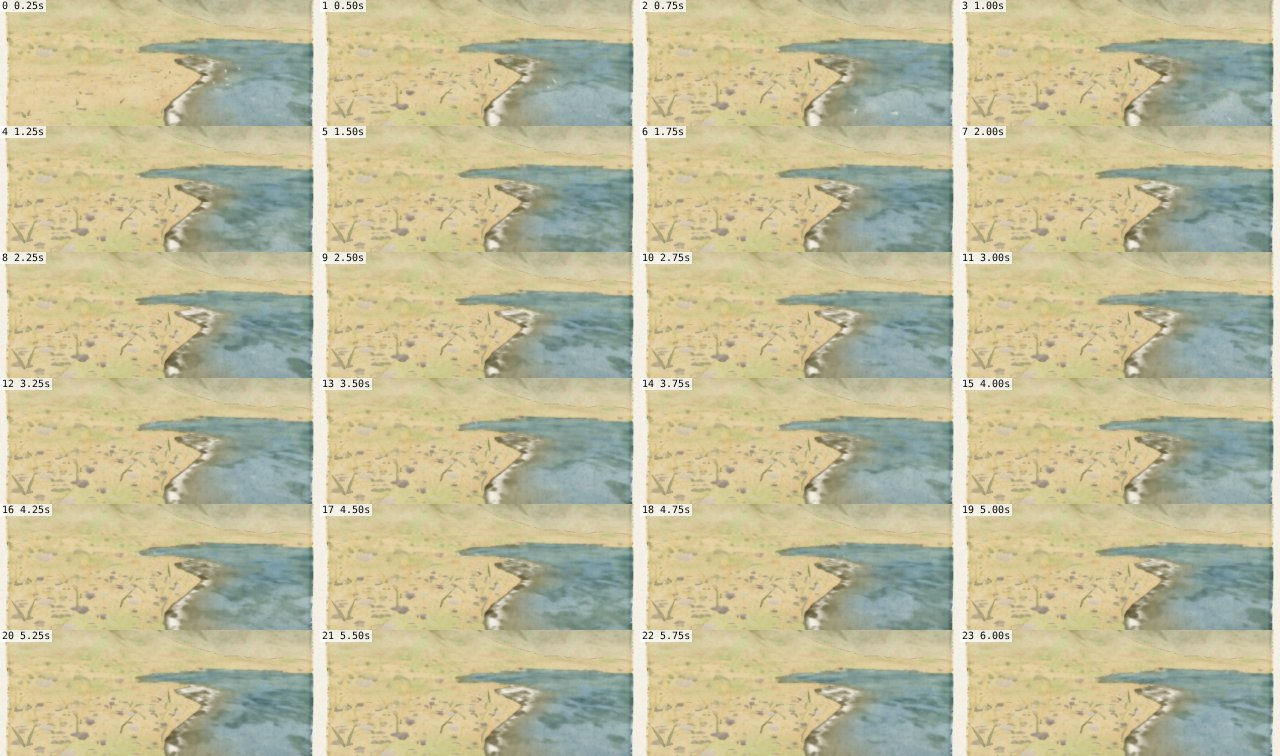
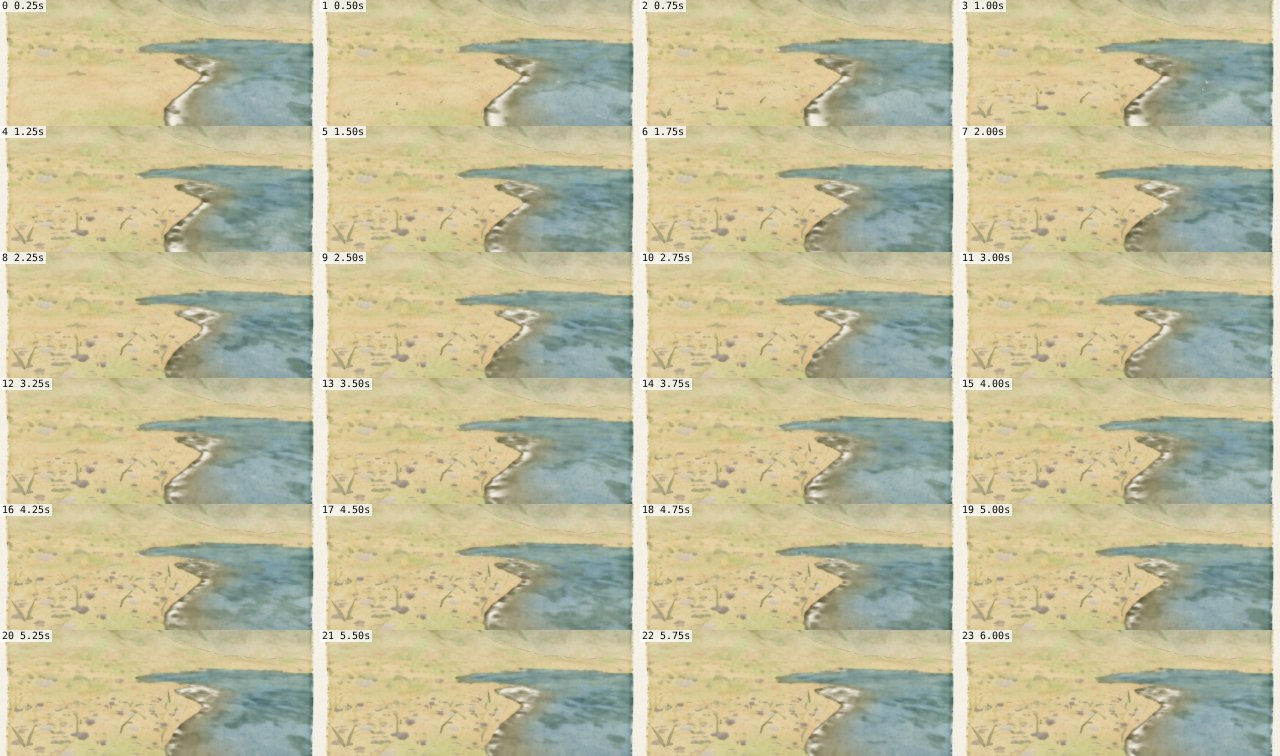
[physics] P13.4 the Earth shore, seen once: shore-earth (a calm, Hs 0.37 m) rendered from a clean export of 1186819 with the working physics and opened: the water's edge is in the same place in all 24 frames (6 s); the foam rim swells and thins a little, nothing runs up or drains back. PAINTER's sha

diff --git a/docs/notes/physics.md b/docs/notes/physics.md
@@ -128,8 +128,18 @@ a second). `physics.update` was not touched and not re-measured. No timing test 
    applying `pcPhysBranch` in a stand-in crown. Leaves: `PARTICLES.capacity.leaves` is [80, 260, 600] and a leaf's
    `size` is its real 4 to 6 cm: 190 leaves round the focus are about ten in view, 3 px each at 10 m. Next: five
    to ten times the count in a gale, and a mark that stands for a spray of leaves (see For PAINTER).
-2. *Item 4, the Earth shore*: `shore-earth` exists as a subject and was not run or opened; a breeze and a calm
-   variant are to be added (`--q` with a time of stronger wind) and judged.
+2. *Item 4, the Earth shore*: half done. `shore-earth` (a calm: Hs 0.37 m, 3.4 m waves, not breaking; the water
+   8 m out moving +-0.09 m, 22 m out +-0.12 m) was rendered from the export of `1186819` with my files and OPENED
+   (`motion-shore-earth.jpg`): from 4 m up a sand beach, looking along the shore, a white foam rim lies along the
+   water's edge and **the edge is in the same place in all 24 frames (6 s)**; the rim swells and thins a little
+   with a period near 3 s (brighter and broader at 0 to 1 s and 2.5 to 3.5 s) and the dark patches of the water
+   shift, but nothing runs up the sand and nothing drains back. In that export PAINTER's shaders do not use
+   `pcPhysWaterRunup` or `pcPhysWaterLong` (PAINTER's uncommitted `src/render/materials.js` in the working tree now
+   names them), so this is the shore BEFORE the run-up is drawn. What it should show there: on a 0.07 beach the
+   edge travelling about 0.8 m up and back (Stockdon: swing 0.75 x slope x sqrt(H L) = 6 cm of height) in the long
+   train's period. To do: re-film when PAINTER's wiring is committed; a breeze (the subject takes `--q "t=..."` for
+   a time of stronger wind); the probe's `runup` and `swash` columns print null (the probe does not reach
+   `fields.water.runup`): fix it so the strip carries the edge's travel in numbers.
 3. The lab's hull does not show `buffetAngle`; `explorer-jet`, `ship-hover`, `clamber-run-moon` not re-filmed.
 4. The stand-in's legs are sticks: no knee, so a flight phase does not read as one. A knee that folds in the swing
    (heel toward the hip) would show it; that belongs to whoever draws the figure.
